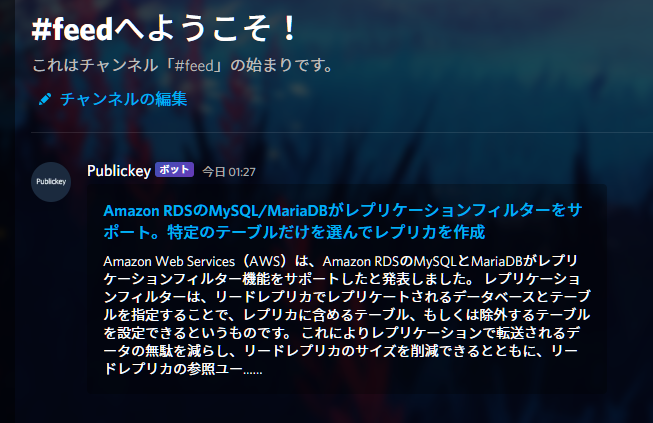
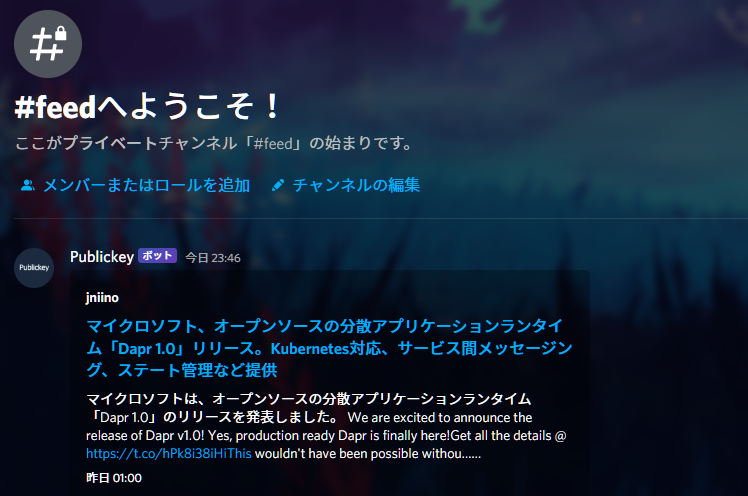
enhance embed format

diff --git a/src/main/kotlin/blue/starry/feedchime/FeedNotifier.kt b/src/main/kotlin/blue/starry/feedchime/FeedNotifier.kt
@@ -1,14 +1,10 @@
 package blue.starry.feedchime
 
-import dev.kord.common.entity.DiscordEmbed
-import dev.kord.common.entity.optional.optional
+import com.rometools.rome.feed.synd.SyndEntry
+import com.rometools.rome.feed.synd.SyndFeed
 import io.ktor.client.request.*
 import io.ktor.http.*
 import kotlinx.coroutines.coroutineScope
-import kotlinx.coroutines.flow.collectIndexed
-import kotlinx.coroutines.flow.map
-import kotlinx.coroutines.flow.take
-import kotlinx.coroutines.flow.takeWhile
 import kotlinx.coroutines.joinAll
 import kotlinx.coroutines.launch
 import mu.KotlinLogging
@@ -18,7 +14,7 @@ import org.jetbrains.exposed.sql.select
 import org.jetbrains.exposed.sql.transactions.transaction
 import org.jetbrains.exposed.sql.update
 import org.jsoup.Jsoup
-import java.time.ZonedDateTime
+import java.time.ZoneOffset
 
 object FeedNotifier {
     init {
@@ -37,89 +33,96 @@ object FeedNotifier {
         }.joinAll()
     }
 
-    private suspend fun checkEach(feed: Config.Feed) {
-        val lastGuid = transaction(FeedchimeDatabase) {
-            RssFeedHistories.select { RssFeedHistories.url eq feed.url }.firstOrNull()?.get(RssFeedHistories.guid)
+    private suspend fun checkEach(config: Config.Feed) {
+        val lastUri = transaction(FeedchimeDatabase) {
+            RssFeedHistories.select { RssFeedHistories.url eq config.url }.firstOrNull()?.get(RssFeedHistories.uri)
         }
-        var newGuid = ""
+        var newUri = ""
 
-        FeedParser.parse(feed.url)
-            // require title and guid field
-            .takeWhile { it.title.isPresent }
-            .takeWhile { it.guid.isPresent }
-            // check last guid
-            .takeWhile { it.guid.get() != lastGuid }
+        val feed = FeedParser.parse(config.url)
+        feed.entries.asSequence()
+            // require title and uri field
+            .filter { it.title != null }
+            .filter { it.uri != null }
+            // check last link
+            .takeWhile { it.uri != lastUri }
             // limit items
             .take(FeedchimeConfig.limit)
-            // transform to type-safe object
-            .map { item ->
-                FeedItem(
-                    title = item.title.get(),
-                    description = item.description.orElseGet { null },
-                    url = item.link.orElseGet { null },
-                    author = item.author.orElseGet { null },
-                    category = item.category.orElseGet { null },
-                    time = runCatching {
-                        item.pubDateZonedDateTime
-                    }.map { optional ->
-                        optional.orElseGet { null }
-                    }.recoverCatching {
-                        ZonedDateTime.parse(item.pubDate.get(), FeedItem.alternativeDateTimeFormat)
-                    }.getOrNull(),
-                    id = item.guid.get()
-                )
-            }
-            .collectIndexed { i, it ->
-                // only notify when lastGuid is present
-                if (lastGuid != null) {
-                    notify(it, feed)
+            .forEachIndexed { i, entry ->
+                logger.trace { entry }
+
+                // only notify when lastLink is present
+                if (lastUri != null) {
+                    notify(feed, entry, config)
                 }
 
-                // save first guid
+                // save first link
                 if (i == 0) {
-                    newGuid = it.id
+                    newUri = entry.uri
                 }
-
-                logger.trace { it }
             }
 
         // skip updating if new guid is null
-        if (newGuid.isEmpty()) {
+        if (newUri.isEmpty()) {
             return
         }
 
         transaction(FeedchimeDatabase) {
             // update if exists
-            if (lastGuid != null) {
-                RssFeedHistories.update({ RssFeedHistories.url eq feed.url }) {
-                    it[guid] = newGuid
+            if (lastUri != null) {
+                RssFeedHistories.update({ RssFeedHistories.url eq config.url }) {
+                    it[uri] = newUri
                 }
             // insert if not exists
             } else {
                 RssFeedHistories.insert {
-                    it[this.url] = feed.url
-                    it[guid] = newGuid
+                    it[url] = config.url
+                    it[uri] = newUri
                 }
             }
         }
     }
 
-    private suspend fun notify(item: FeedItem, feed: Config.Feed) {
-        if (feed.discordWebhookUrl != null) {
-            notifyToDiscordWebhook(item, feed.discordWebhookUrl)
+    private suspend fun notify(feed: SyndFeed, entry: SyndEntry, config: Config.Feed) {
+        if (config.discordWebhookUrl != null) {
+            notifyToDiscordWebhook(feed, entry, config.discordWebhookUrl)
         }
     }
 
-    private suspend fun notifyToDiscordWebhook(item: FeedItem, webhookUrl: String) {
+    private suspend fun notifyToDiscordWebhook(feed: SyndFeed, entry: SyndEntry, webhookUrl: String) {
         FeedchimeHttpClient.post<Unit>(webhookUrl) {
             contentType(ContentType.Application.Json)
 
             body = DiscordWebhookMessage(
                 embeds = listOf(
                     DiscordEmbed(
-                        title = item.title.optional(),
-                        description = item.description?.let { Jsoup.parse(it).text() }.toOptionalAnyway(),
-                        url = item.url.toOptionalAnyway()
+                        title = entry.title,
+                        description = entry.contents.joinToString("\n") {
+                            if (it.type == "html") {
+                                Jsoup.parse(it.value).text()
+                            } else {
+                                it.value
+                            }
+                        },
+                        url = entry.link,
+                        author = entry.authors.firstOrNull()?.let {
+                            DiscordEmbed.Author(
+                                name = it.name,
+                                url = it.uri
+                            )
+                        },
+                        provider = DiscordEmbed.Provider(
+                            name = feed.title,
+                            url = feed.link
+                        ),
+                        thumbnail = entry.foreignMarkup.find { it.qualifiedName == "media:thumbnail" }?.let {
+                            DiscordEmbed.Thumbnail(
+                                url = it.getAttributeValue("url"),
+                                height = it.getAttributeValue("height")?.toIntOrNull(),
+                                width = it.getAttributeValue("width")?.toIntOrNull()
+                            )
+                        },
+                        timestamp = (entry.updatedDate ?: entry.publishedDate)?.toInstant()?.atOffset(ZoneOffset.UTC)?.toZonedDateTime()
                     )
                 )
             )

diff --git a/src/main/kotlin/blue/starry/feedchime/Discord.kt b/src/main/kotlin/blue/starry/feedchime/Discord.kt
@@ -1,10 +1,14 @@
 package blue.starry.feedchime
 
-import dev.kord.common.entity.DiscordEmbed
-import dev.kord.common.entity.optional.Optional
-import dev.kord.common.entity.optional.optional
+import kotlinx.serialization.KSerializer
 import kotlinx.serialization.SerialName
 import kotlinx.serialization.Serializable
+import kotlinx.serialization.descriptors.PrimitiveKind
+import kotlinx.serialization.descriptors.PrimitiveSerialDescriptor
+import kotlinx.serialization.encoding.Decoder
+import kotlinx.serialization.encoding.Encoder
+import java.time.ZonedDateTime
+import java.time.format.DateTimeFormatter
 
 @Serializable
 data class DiscordWebhookMessage(
@@ -14,6 +18,95 @@ data class DiscordWebhookMessage(
     val embeds: List<DiscordEmbed> = emptyList()
 )
 
-fun <T: Any> T?.toOptionalAnyway(): Optional<T> {
-    return this?.optional() ?: Optional.Missing()
+@Serializable
+data class DiscordEmbed(
+    val title: String? = null,
+    val type: Type? = null,
+    val description: String? = null,
+    val url: String? = null,
+    @Serializable(with = ZonedDateTimeSerializer::class) val timestamp: ZonedDateTime? = null,
+    val color: Int? = null,
+    val footer: Footer? = null,
+    val image: Image? = null,
+    val thumbnail: Thumbnail? = null,
+    val video: Video? = null,
+    val provider: Provider? = null,
+    val author: Author? = null,
+    val fields: List<Field> = emptyList()
+) {
+    @Serializable
+    enum class Type {
+        @SerialName("rich") Rich,
+        @SerialName("image") Image,
+        @SerialName("video") Video,
+        @SerialName("gifv") Gifv,
+        @SerialName("article") Article,
+        @SerialName("link") Link
+    }
+
+    @Serializable
+    data class Footer(
+        val text: String,
+        @SerialName("icon_url") val iconUrl: String? = null,
+        @SerialName("proxy_icon_url") val proxyIconUrl: String? = null
+    )
+
+    @Serializable
+    data class Image(
+        val url: String? = null,
+        @SerialName("proxy_url") val proxyUrl: String? = null,
+        val height: Int? = null,
+        val width: Int? = null
+    )
+
+    @Serializable
+    data class Thumbnail(
+        val url: String? = null,
+        @SerialName("proxy_url") val proxyUrl: String? = null,
+        val height: Int? = null,
+        val width: Int? = null
+    )
+
+    @Serializable
+    data class Video(
+        val url: String? = null,
+        @SerialName("proxy_url") val proxyUrl: String? = null,
+        val height: Int? = null,
+        val width: Int? = null
+    )
+
+    @Serializable
+    data class Provider(
+        val name: String? = null,
+        val url: String? = null
+    )
+
+    @Serializable
+    data class Author(
+        val name: String? = null,
+        val url: String? = null,
+        @SerialName("icon_url") val iconUrl: String? = null,
+        @SerialName("proxy_icon_url") val proxyIconUrl: String? = null
+    )
+
+    @Serializable
+    data class Field(
+        val name: String,
+        val value: String,
+        val inline: Boolean? = null
+    )
+}
+
+object ZonedDateTimeSerializer: KSerializer<ZonedDateTime> {
+    override val descriptor = PrimitiveSerialDescriptor("java.time.ZonedDateTime", PrimitiveKind.STRING)
+
+    override fun serialize(encoder: Encoder, value: ZonedDateTime) {
+        val text = value.format(DateTimeFormatter.ISO_OFFSET_DATE_TIME)
+        encoder.encodeString(text)
+    }
+
+    override fun deserialize(decoder: Decoder): ZonedDateTime {
+        val text = decoder.decodeString()
+        return ZonedDateTime.parse(text, DateTimeFormatter.ISO_OFFSET_DATE_TIME)
+    }
 }

diff --git a/src/main/kotlin/blue/starry/feedchime/FeedParser.kt b/src/main/kotlin/blue/starry/feedchime/FeedParser.kt
@@ -1,21 +1,18 @@
 package blue.starry.feedchime
 
-import com.apptastic.rssreader.RssReader
+import com.rometools.rome.feed.synd.SyndFeed
+import com.rometools.rome.io.SyndFeedInput
 import io.ktor.client.request.*
-import io.ktor.client.statement.*
-import io.ktor.utils.io.jvm.javaio.*
-import kotlinx.coroutines.flow.flow
+import org.xml.sax.InputSource
+import java.io.StringReader
 
 object FeedParser {
-    private val reader = RssReader()
+    private val input = SyndFeedInput()
 
-    suspend fun parse(url: String) = flow {
-        FeedchimeHttpClient.get<HttpStatement>(url).execute {
-            val stream = it.content.toInputStream()
+    suspend fun parse(url: String): SyndFeed {
+        val content = FeedchimeHttpClient.get<String>(url)
+        val source = InputSource(StringReader(content))
 
-            for (feed in reader.read(stream)) {
-                emit(feed)
-            }
-        }
+        return input.build(source)
     }
 }

diff --git a/src/main/kotlin/blue/starry/feedchime/Database.kt b/src/main/kotlin/blue/starry/feedchime/Database.kt
@@ -4,5 +4,5 @@ import org.jetbrains.exposed.sql.Table
 
 object RssFeedHistories: Table() {
     val url = varchar("url", 256)
-    val guid = varchar("guid", 64)
+    val uri = varchar("guid", 256)
 }
